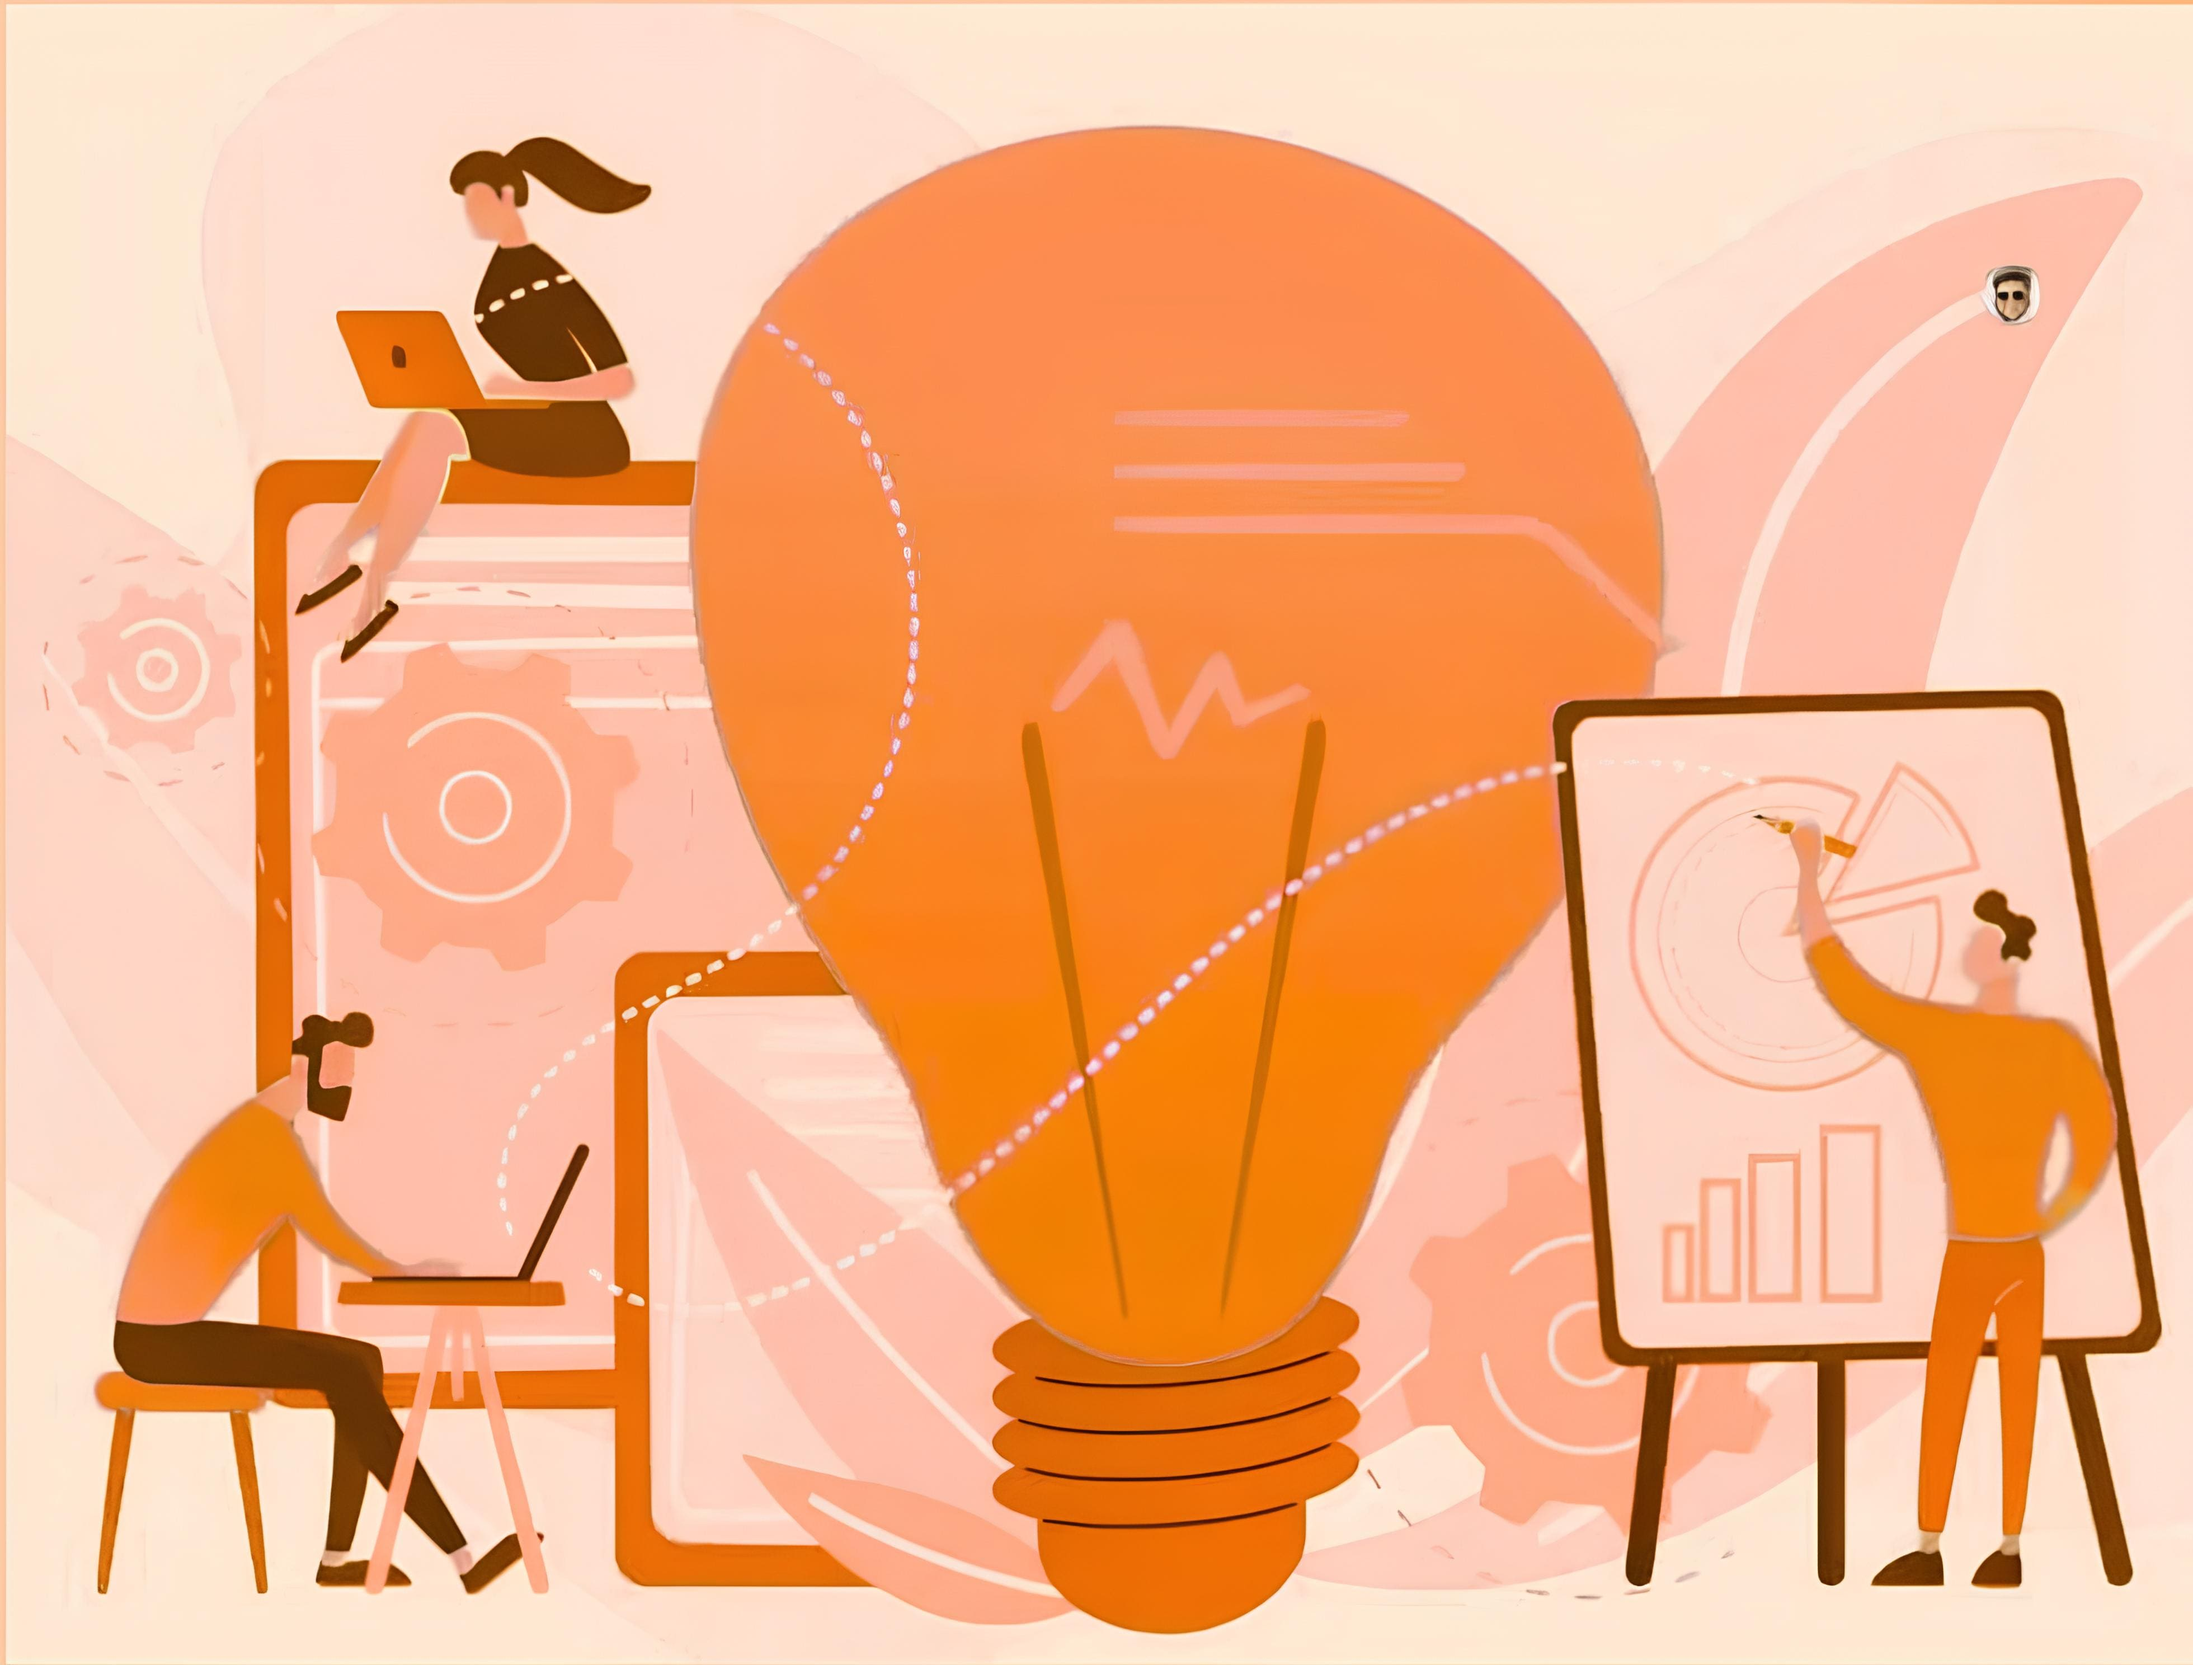
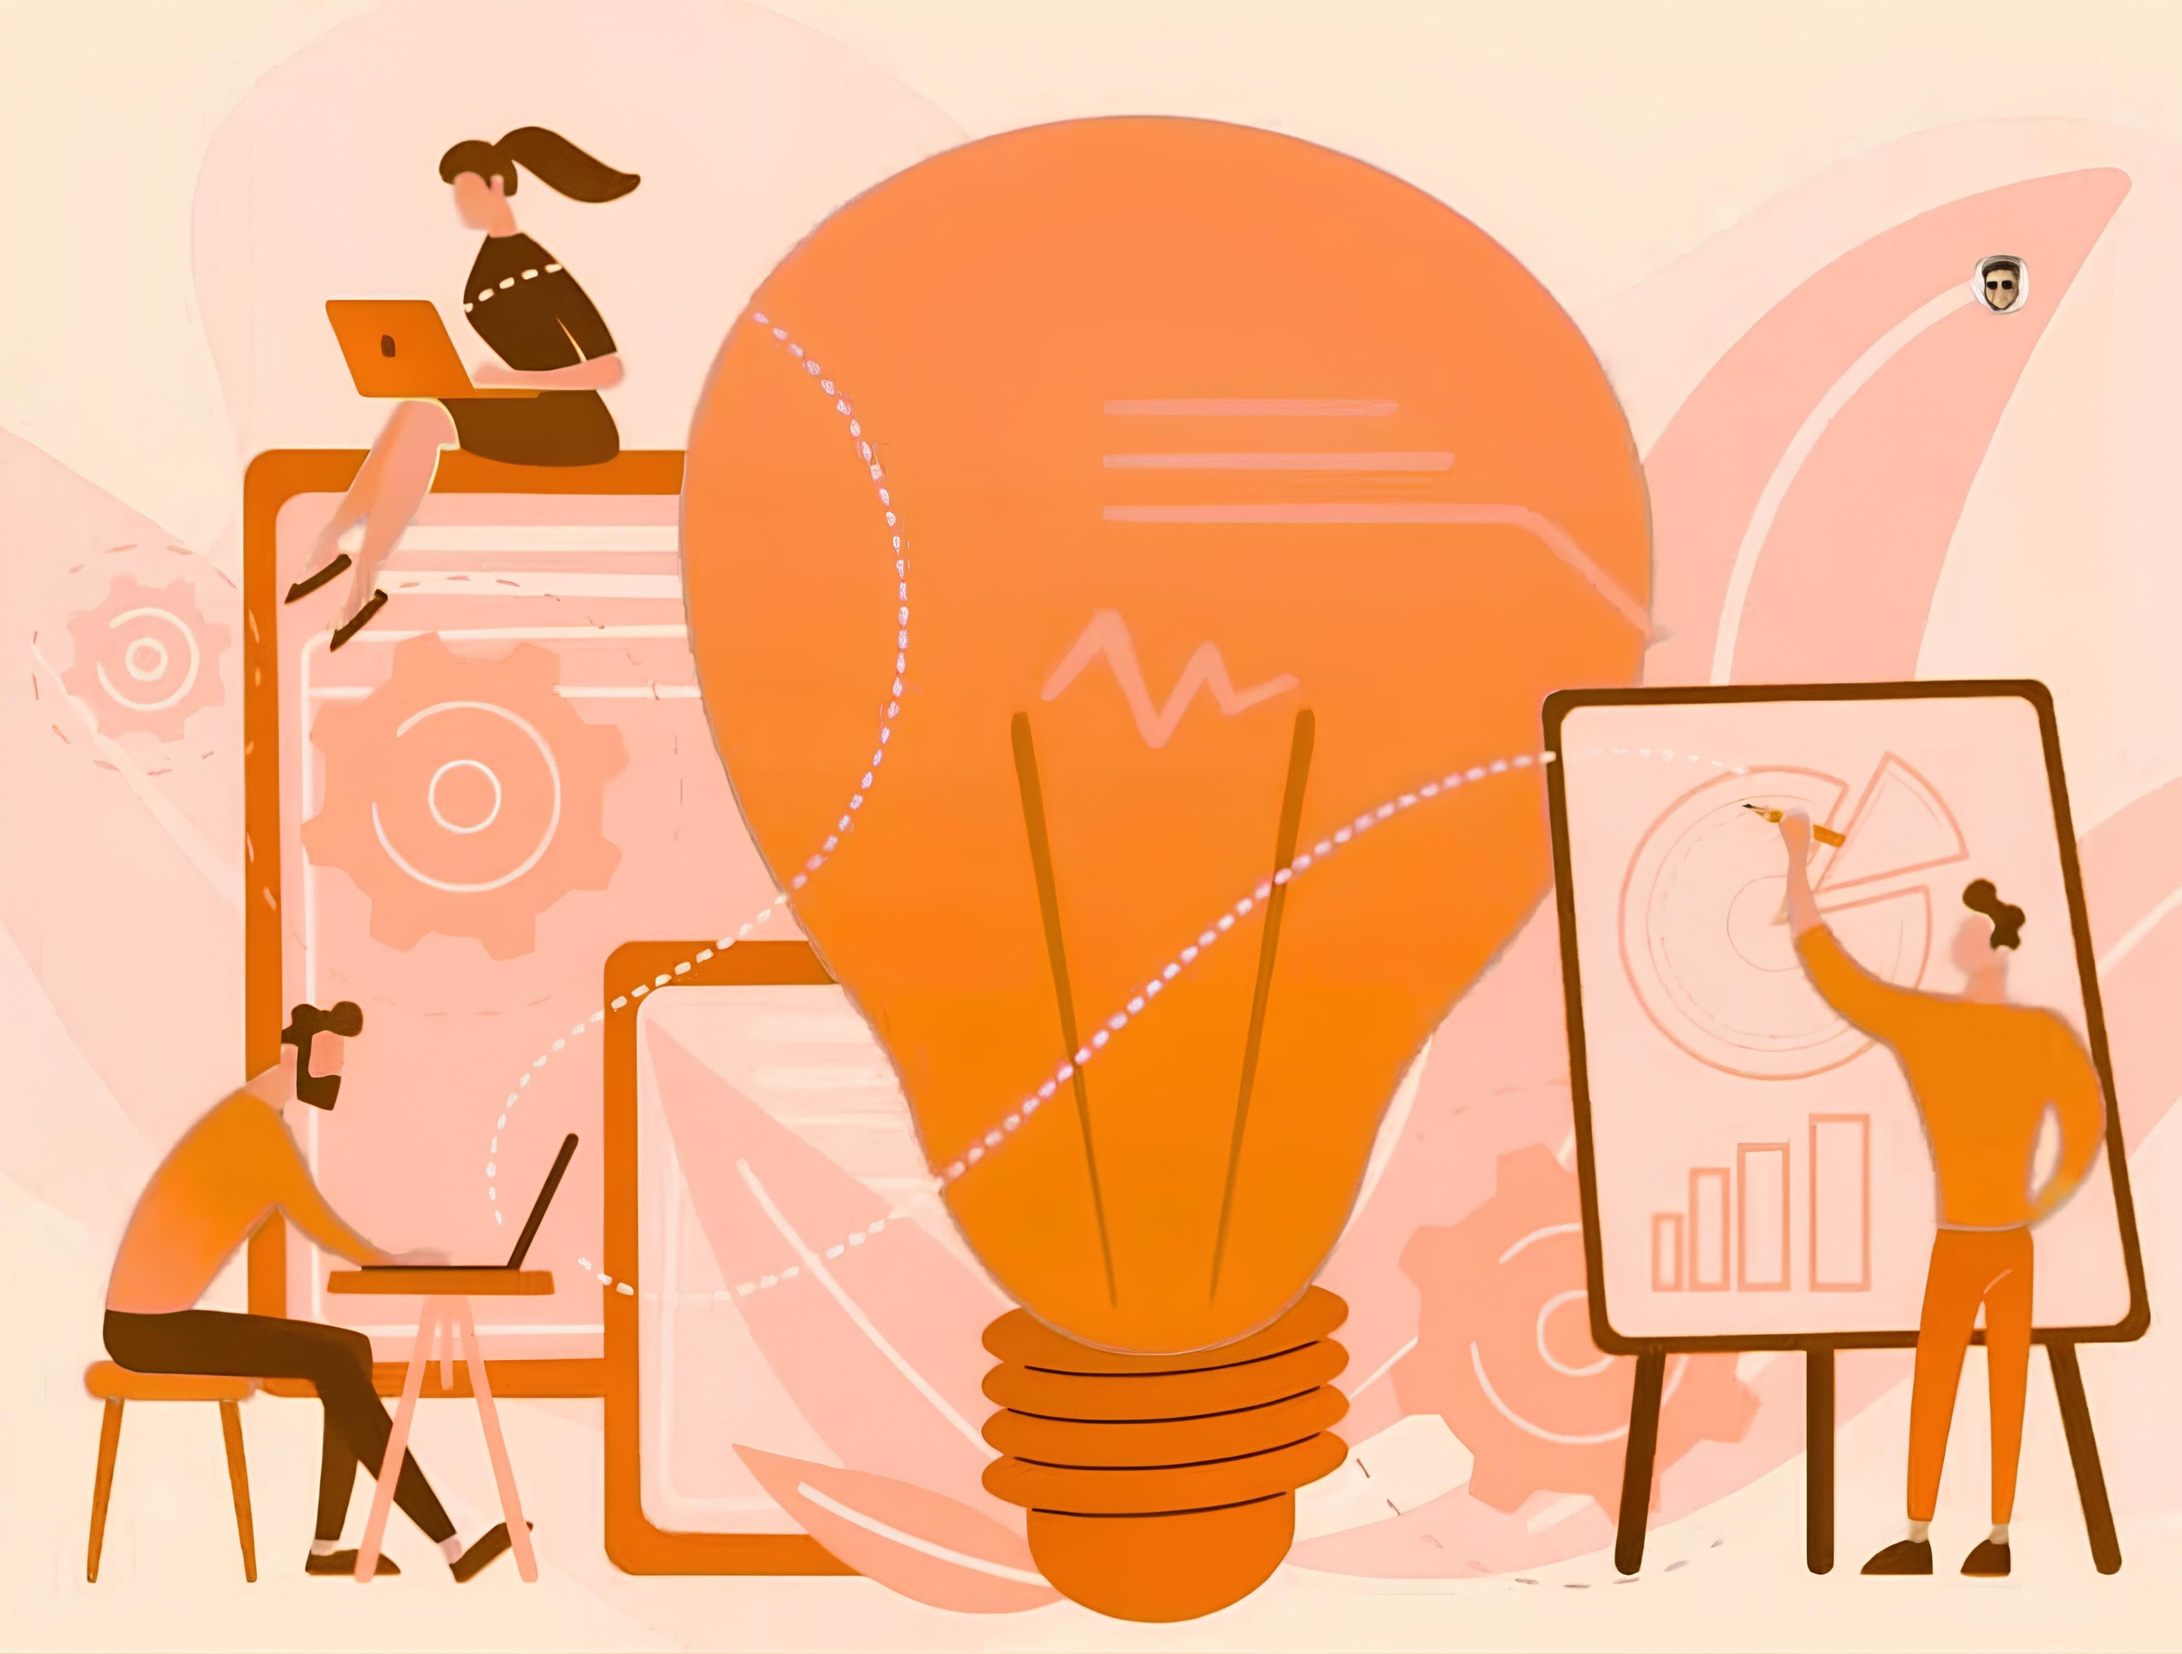
update

diff --git a/frontend/css/style.css b/frontend/css/style.css
@@ -326,6 +326,27 @@ li.hnll {
     margin: 50px 0;
 }
 
+.fp {
+    display: flex;
+    justify-content: center;
+    align-items: center;
+    gap: 40px;
+}
+
+.about-text {
+    font-family: var(--text-font1);
+    font-size: 1.5em;
+    max-width: 400px;
+    box-shadow: -20px 20px 0px #fe820e34;
+    padding-left: 5px;
+}
+
+.about-img {
+    max-width: 520px;
+    object-fit: cover;
+    border-radius: 20px;
+}
+
 .subtitle {
     font-family: var(--text-font1);
     font-size: 2.2em;
@@ -375,4 +396,87 @@ li.hnll {
 .mission-card:hover {
     border: 1px solid var(--s-color);
     transform: scale(1.05);
+}
+
+/*service*/
+.services-section,
+.process-projet-section, 
+.nos-offres {
+    margin-top: 80px;
+}
+  
+.process-container {
+    max-width: 800px;
+    margin: auto;
+    background: #ffffff61;
+    backdrop-filter: blur(5px);
+    padding: 40px 30px;
+    border-radius: 12px;
+    box-shadow: 0 8px 20px rgba(0, 0, 0, 0.1);
+    animation: fadeIn 1s ease-in-out;
+}
+  
+.steps {
+    display: flex;
+    flex-direction: column;
+    gap: 30px;
+}
+  
+.step {
+    display: flex;
+    align-items: baseline;
+    opacity: 0;
+    transform: translateY(20px);
+    animation: slideUp 0.8s forwards;
+}
+  
+.step:nth-child(1) { animation-delay: 0.3s; }
+.step:nth-child(2) { animation-delay: 0.6s; }
+.step:nth-child(3) { animation-delay: 0.9s; }
+.step:nth-child(4) { animation-delay: 1.2s; }
+.step:nth-child(5) { animation-delay: 1.5s; }
+  
+.circle {
+    min-width: 45px;
+    height: 45px;
+    background-color: #af4c0f;
+    color: #fff;
+    font-family: var(--title-font);
+    font-weight: bold;
+    font-size: 18px;
+    border-radius: 50%;
+    display: flex;
+    align-items: center;
+    justify-content: center;
+    margin-right: 20px;
+    flex-shrink: 0;
+    font-size: 1.5em;
+}
+  
+.content h3 {
+    margin: 0 0 6px;
+    font-size: 1.5em;
+    color: #af4c0f;
+    font-family: var(--title-font);
+}
+  
+.content p {
+    margin: 0;
+    color: #444;
+    font-size: 15px;
+    line-height: 1.5;
+    font-size: 1.2em;
+    font-family: var(--text-font2);
+}
+  
+@keyframes slideUp {
+    to {
+        opacity: 1;
+        transform: translateY(0);
+    }
+}
+  
+@keyframes fadeIn {
+    from { opacity: 0; }
+    to { opacity: 1; }
 }

diff --git a/frontend/index.html b/frontend/index.html
@@ -78,7 +78,7 @@
                 <div class="about-content">
                     <div class="fp">
                         <p class="about-text">Nous sommes une agence de marketing digital et de community management qui accompagne les entreprises locales comme restaurants, hôtels, salons de beauté, marques et commerces de proximité etc dans le développement de leur visibilité en ligne, en déployant des stratégies de communication digitale sur mesure. Grâce à une gestion complète, cohérente et stratégique de leur image sur les réseaux sociaux, nous renforçons leur notoriété, engageons leur communauté et contribuons activement à leur croissance.</p>
-                        <!--<img src="assets/img/illustration.jpeg" alt="Agence de community management et de digital marketing" class="about-img">-->
+                        <img src="assets/img/illustration.jpeg" alt="Agence de community management et de digital marketing" class="about-img">
                     </div>
                     <div class="sp">
                         <h3 class="subtitle">Notre mission</h3>
